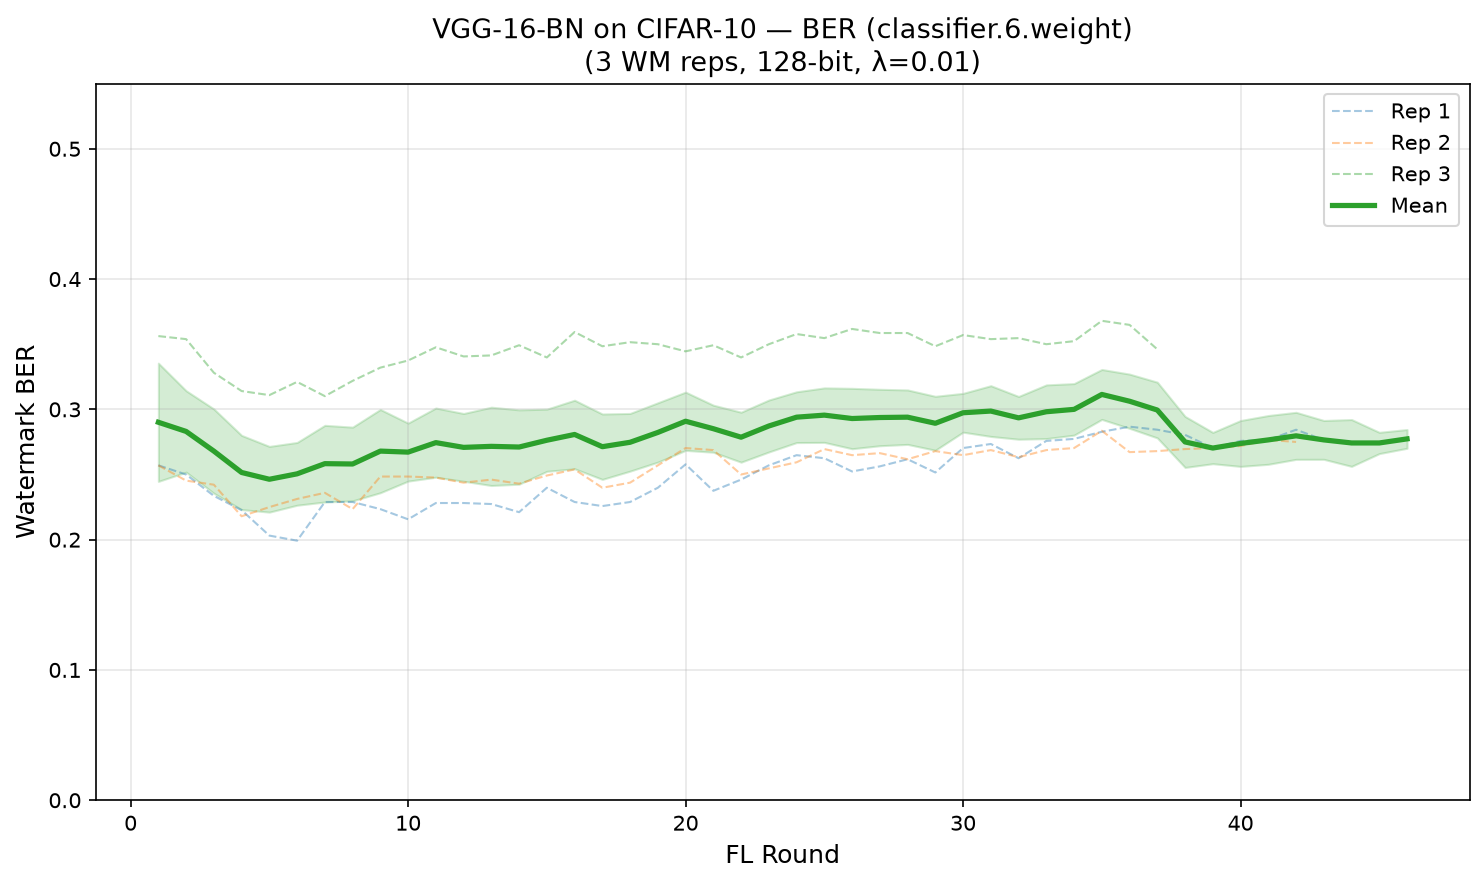
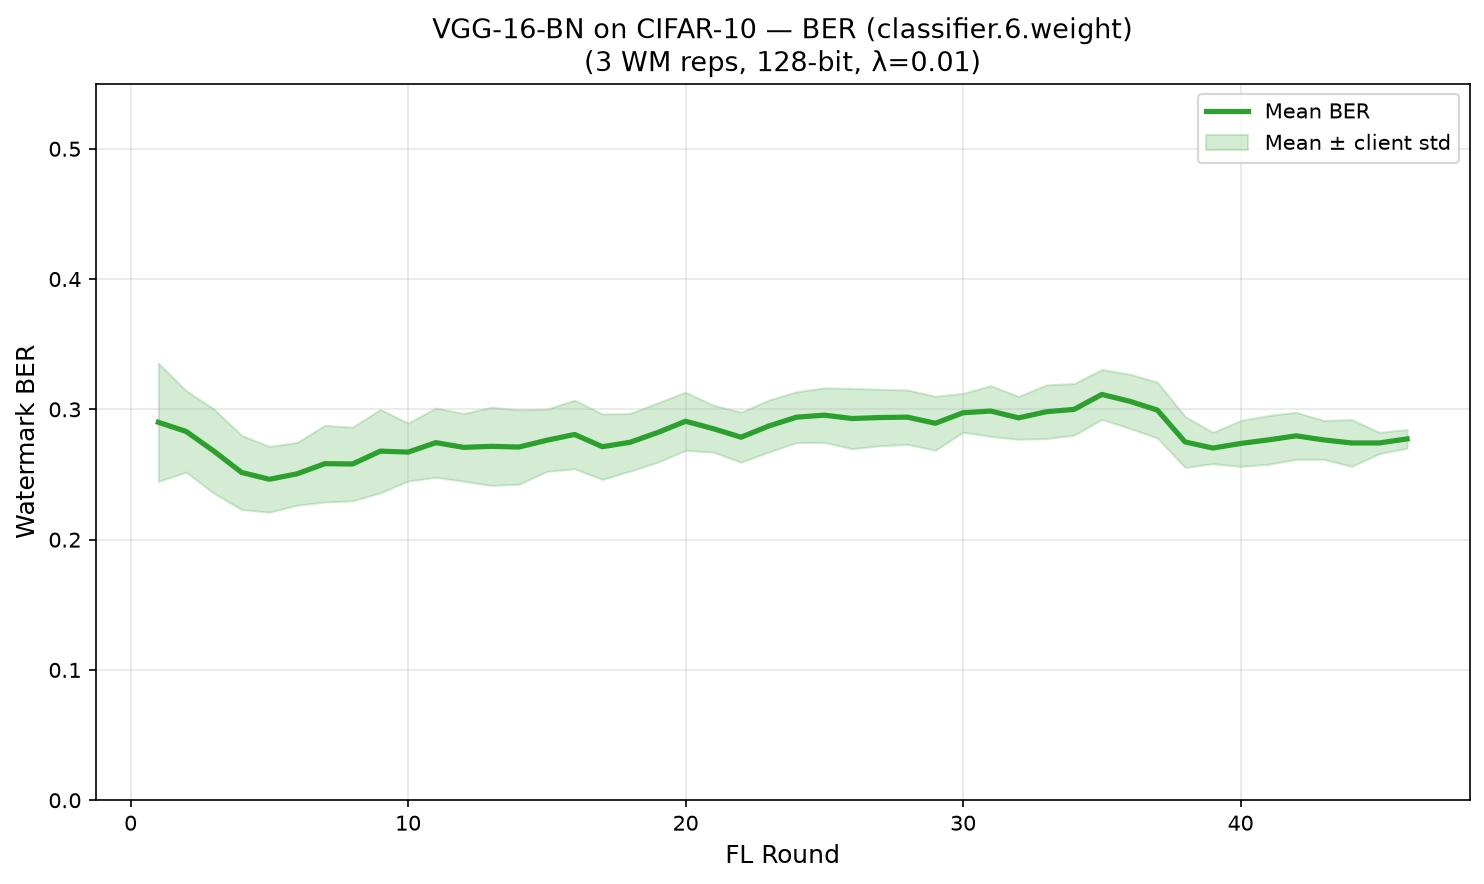
plots: mean ± std instead of per-rep curves

diff --git a/utility scripts/plot_cifar10_vgg16_combined.py b/utility scripts/plot_cifar10_vgg16_combined.py
@@ -125,27 +125,29 @@ def main():
 
     # === Plot 1: Accuracy comparison ===
     fig, ax = plt.subplots(figsize=(10, 6))
-    for i, (rnds, accs, _) in enumerate(nowm_server):
-        ax.plot(rnds, accs, "--", alpha=0.4, linewidth=1, color="C0",
-                label=f"No-WM rep {i+1}" if i < 3 else None)
-    for i, (rnds, accs, _) in enumerate(wm_server):
-        ax.plot(rnds, accs, "--", alpha=0.4, linewidth=1, color="C1",
-                label=f"WM rep {i+1}" if i < 3 else None)
-
-    # Means
     common_nowm = list(range(1, max(r[0][-1] for r in nowm_server) + 1))
     common_wm = list(range(1, max(r[0][-1] for r in wm_server) + 1))
     nowm_acc_mat = interpolate_to_common(common_nowm, [(d[0], d[1]) for d in nowm_server])
     wm_acc_mat = interpolate_to_common(common_wm, [(d[0], d[1]) for d in wm_server])
-    ax.plot(common_nowm, np.nanmean(nowm_acc_mat, axis=0), "-", color="C0", linewidth=2.5, label="No-WM mean")
-    ax.plot(common_wm, np.nanmean(wm_acc_mat, axis=0), "-", color="C1", linewidth=2.5, label="WM mean")
+
+    nowm_acc_mean = np.nanmean(nowm_acc_mat, axis=0)
+    nowm_acc_std = np.nanstd(nowm_acc_mat, axis=0)
+    wm_acc_mean = np.nanmean(wm_acc_mat, axis=0)
+    wm_acc_std = np.nanstd(wm_acc_mat, axis=0)
+
+    ax.plot(common_nowm, nowm_acc_mean, "-", color="C0", linewidth=2.5, label="No-WM mean")
+    ax.fill_between(common_nowm, nowm_acc_mean - nowm_acc_std, nowm_acc_mean + nowm_acc_std,
+                    color="C0", alpha=0.2)
+    ax.plot(common_wm, wm_acc_mean, "-", color="C1", linewidth=2.5, label="WM mean")
+    ax.fill_between(common_wm, wm_acc_mean - wm_acc_std, wm_acc_mean + wm_acc_std,
+                    color="C1", alpha=0.2)
 
     ax.set_xlabel("FL Round", fontsize=12)
     ax.set_ylabel("Server Accuracy (%)", fontsize=12)
     ax.set_title("VGG-16-BN on CIFAR-10 — Accuracy\n(3 reps each, no-WM vs WM, no attack)", fontsize=13)
     ax.grid(True, alpha=0.3)
     ax.set_ylim(0, 100)
-    ax.legend(fontsize=9, ncol=2)
+    ax.legend(fontsize=10)
     fig.tight_layout()
     fig.savefig(OUT_DIR / "accuracy_comparison.png", dpi=150, bbox_inches="tight")
     plt.close(fig)
@@ -153,23 +155,26 @@ def main():
 
     # === Plot 2: Loss comparison ===
     fig, ax = plt.subplots(figsize=(10, 6))
-    for i, (rnds, _, losses) in enumerate(nowm_server):
-        ax.plot(rnds, losses, "--", alpha=0.4, linewidth=1, color="C0",
-                label=f"No-WM rep {i+1}" if i < 3 else None)
-    for i, (rnds, _, losses) in enumerate(wm_server):
-        ax.plot(rnds, losses, "--", alpha=0.4, linewidth=1, color="C1",
-                label=f"WM rep {i+1}" if i < 3 else None)
-
     nowm_loss_mat = interpolate_to_common(common_nowm, [(d[0], d[2]) for d in nowm_server])
     wm_loss_mat = interpolate_to_common(common_wm, [(d[0], d[2]) for d in wm_server])
-    ax.plot(common_nowm, np.nanmean(nowm_loss_mat, axis=0), "-", color="C0", linewidth=2.5, label="No-WM mean")
-    ax.plot(common_wm, np.nanmean(wm_loss_mat, axis=0), "-", color="C1", linewidth=2.5, label="WM mean")
+
+    nowm_loss_mean = np.nanmean(nowm_loss_mat, axis=0)
+    nowm_loss_std = np.nanstd(nowm_loss_mat, axis=0)
+    wm_loss_mean = np.nanmean(wm_loss_mat, axis=0)
+    wm_loss_std = np.nanstd(wm_loss_mat, axis=0)
+
+    ax.plot(common_nowm, nowm_loss_mean, "-", color="C0", linewidth=2.5, label="No-WM mean")
+    ax.fill_between(common_nowm, nowm_loss_mean - nowm_loss_std, nowm_loss_mean + nowm_loss_std,
+                    color="C0", alpha=0.2)
+    ax.plot(common_wm, wm_loss_mean, "-", color="C1", linewidth=2.5, label="WM mean")
+    ax.fill_between(common_wm, wm_loss_mean - wm_loss_std, wm_loss_mean + wm_loss_std,
+                    color="C1", alpha=0.2)
 
     ax.set_xlabel("FL Round", fontsize=12)
     ax.set_ylabel("Server Loss", fontsize=12)
     ax.set_title("VGG-16-BN on CIFAR-10 — Loss\n(3 reps each, no-WM vs WM, no attack)", fontsize=13)
     ax.grid(True, alpha=0.3)
-    ax.legend(fontsize=9, ncol=2)
+    ax.legend(fontsize=10)
     fig.tight_layout()
     fig.savefig(OUT_DIR / "loss_comparison.png", dpi=150, bbox_inches="tight")
     plt.close(fig)
@@ -188,23 +193,20 @@ def main():
         mean_mat = np.array(mean_mat)
         std_mat = np.array(std_mat)
 
-        for i, (rnds, bers, _) in enumerate(wm_ber):
-            ax.plot(rnds, bers, "--", alpha=0.4, linewidth=1,
-                    label=f"Rep {i+1}")
-
         agg_mean = np.nanmean(mean_mat, axis=0)
         agg_std = np.nanmean(std_mat, axis=0)
-        ax.plot(all_rounds, agg_mean, "-", color="C2", linewidth=2.5, label="Mean")
+        rep_std = np.nanstd(mean_mat, axis=0)
+
+        ax.plot(all_rounds, agg_mean, "-", color="C2", linewidth=2.5, label="Mean BER")
         ax.fill_between(all_rounds, agg_mean - agg_std, agg_mean + agg_std,
-                        color="C2", alpha=0.2)
+                        color="C2", alpha=0.2, label="Mean ± client std")
 
         ax.set_xlabel("FL Round", fontsize=12)
         ax.set_ylabel("Watermark BER", fontsize=12)
         ax.set_title("VGG-16-BN on CIFAR-10 — BER (classifier.6.weight)\n(3 WM reps, 128-bit, λ=0.01)", fontsize=13)
         ax.grid(True, alpha=0.3)
         ax.set_ylim(0, 0.55)
-        if ax.get_legend_handles_labels()[0]:
-            ax.legend(fontsize=10)
+        ax.legend(fontsize=10)
         fig.tight_layout()
         fig.savefig(OUT_DIR / "ber_comparison.png", dpi=150, bbox_inches="tight")
         plt.close(fig)
@@ -225,13 +227,27 @@ def main():
                     ep_map_ber.setdefault(e, []).append(wb[i])
 
             tl_mean = [np.mean(ep_map_task[e]) for e in common_ep]
+            tl_std = [np.std(ep_map_task[e]) for e in common_ep]
             wb_mean = [np.mean(ep_map_ber[e]) for e in common_ep]
+            wb_std = [np.std(ep_map_ber[e]) for e in common_ep]
             axes[0].plot(common_ep, tl_mean, "o-", color=color, linewidth=2, markersize=3, label=prefix)
+            axes[0].fill_between(common_ep, np.array(tl_mean) - np.array(tl_std),
+                                np.array(tl_mean) + np.array(tl_std), color=color, alpha=0.15)
             axes[2].plot(common_ep, wb_mean, "o-", color=color, linewidth=2, markersize=3, label=prefix)
+            axes[2].fill_between(common_ep, np.array(wb_mean) - np.array(wb_std),
+                                np.array(wb_mean) + np.array(wb_std), color=color, alpha=0.15)
 
         if wm_pretrain:
+            wm_wl_map = {}
             for epochs, tl, wl, wb in wm_pretrain:
-                axes[1].plot(epochs, wl, "o--", color="C1", alpha=0.4, linewidth=1, markersize=3)
+                for i, e in enumerate(epochs):
+                    wm_wl_map.setdefault(e, []).append(wl[i])
+            wm_ep = sorted(wm_wl_map.keys())
+            wl_mean = [np.mean(wm_wl_map[e]) for e in wm_ep]
+            wl_std = [np.std(wm_wl_map[e]) for e in wm_ep]
+            axes[1].plot(wm_ep, wl_mean, "o-", color="C1", linewidth=2, markersize=3, label="WM mean")
+            axes[1].fill_between(wm_ep, np.array(wl_mean) - np.array(wl_std),
+                                np.array(wl_mean) + np.array(wl_std), color="C1", alpha=0.15)
 
         axes[0].set_yscale("log")
         axes[0].set_title("Task Loss")
